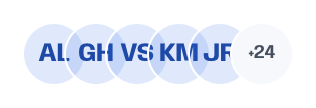
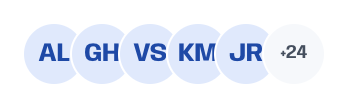
blocks: five drew a shape the object does not have, and every one was a tidy constant
phoneFrame set radius R.pill on the bezel and the screen. R.pill is 100, so
at the catalogue's own w:230 the corner was 43% of the width and it
rendered a capsule. It is now 16% of w, sized on a real handset, and the
screen is the bezel radius minus the pad, which is the concentric rule
DESIGN.md names. The same file already caught this class one line above,
where the notch was changed from a fixed 116px to a proportion.

avatarEl's default fill was 86% transparent, and avatarStack overlaps its
discs by 35%, so you read two fills through each other and the ring meant
to cut each disc out of the next separated nothing. social.mjs had already
written down that the default was wrong and was reinstating it anyway. The
opaque fill then exposed the second half: two capitals run 0.48 of the disc
and end at 0.74 across, so a 0.65 step parked the next disc on the last
fifth of the glyphs. make audit had been failing avatarStack on linear for
exactly this.

glassDock magnified a tile and not its corners, so the peak was the least
round thing in the dock. glassHome's glyph did not scale with its tile
while its sibling in the same file does. stripeCard's chart used 26px bars,
which stop 102px short of the card at the default width.

Fourteen entries judged fine and named, with the measurement each time.
snap-blocks 176 identical, 12 changed. Six of the twelve changed only an
avatar colour string and not one pixel, which is the proof the new mix is a
[…]

diff --git a/docs/MISTAKES.md b/docs/MISTAKES.md
@@ -14897,3 +14897,79 @@ moves. `probe-purity scene` clean. Preload runs once at boot and this changes no
 one third of the set is a statement rather than a derivation. The one-line repair is an
 `export const GSAP_PROPS = ['morph', 'fx', 'fxOut'];` beside `applyGsapHooks`, imported by the guard in
 place of the sweep. It was not made here because another author owned that file this phase.
+
+## #470 · five blocks drew a shape the object does not have, and every one was a tidy constant
+
+`phoneFrame` was reported: at the catalog's own `props: { w: 230, h: 440 }` it rendered a **capsule**, not
+a phone. Reading the rest of the 188-entry catalog by eye found four more of the same class. None of them
+was a wrong decision; each was a number that happened to look right once and then described a different
+object at every other size.
+
+**1 · phoneFrame drew a capsule, twice over.** `radius: R.pill` is 100px, and 100 on a 230px-wide device is
+**43% of the width**. A real handset corner is about a sixth (iPhone 15: 55pt of a 393pt display), so the
+bezel is now `round(w * 0.16)`, 37px at w:230, 48 at w:300. The screen carried the SAME `R.pill`, which is
+the concentric-radius error `site/DESIGN.md` already names: an inner arc is the outer arc minus the gap
+between the two, or the bezel reads thicker at the corners than along the sides. It is `bezel - pad` now.
+The file's own comment one line above says the notch is a proportion "not a fixed 116px, at the catalog's
+w:230 that constant covered more than half the screen". So the same author caught the same class of bug
+on the neighbouring line and left the radius alone, which is why this entry is about the CLASS.
+The `#0A0A0A` on the bezel and the island STAYS. It clears the legitimate-literal test in `blocks/kit.mjs`
+on the same ground `blocks/camera-chrome.mjs` keeps its REC red: the colour belongs to the hardware, not to
+a brand, and a theme repainting it would be depicting a different object.
+
+**2 · every avatar in the library was 86% transparent.** `avatarEl`'s default fill was `TOKENS.accentSoft`,
+which is `color-mix(in srgb, var(--accent) 14%, transparent)`. That is correct for a chip lying flat on a
+card and wrong for a disc that overlaps its own siblings: `avatarStack` steps its discs by 0.65 of their
+size, so 35% of every avatar sat over the one before it and you read both fills at once, and the 2px
+`--card` ring that is meant to cut each disc out of the next separated nothing. Mixing toward `--card`
+instead of `transparent` renders IDENTICALLY on a card ground, which is where every single-avatar block
+puts it, and `card.profile`, `feedRow`, `tweetCard`, `profileHeader`, `videoLowerThird` and
+`splitScreen.pip` all changed their JSON and NOT one pixel of their poster, and makes the stack a stack.
+The fix is in `avatarEl`, not the six call sites; `blocks/social.mjs` was reinstating the see-through fill
+over the top of it with a `bg: a.color || T.accentSoft`, so that went too. `blocks/social.mjs:20-25` had
+already written down that this default was wrong and that changing it was "still outstanding".
+
+**3 · the opaque fill exposed the second half: the initials were being cut.** `avatarEl` sets the initials
+at 0.4 of the disc, so two capitals run about 0.48 of it and, centred, end at **0.74** of the way across. A
+step of 0.65 therefore parked the next disc on the last fifth of the glyphs; translucency had been hiding
+it. 0.75 clears them, and 25% is where every real facepile sits. The constant was spelled twice, in
+`avatarStack` and in `socialProof`, which is the drift shape this repo logs most; it is one `AV_STEP` now.
+`make audit` had been failing `avatarStack` and `avatarStack.large` on the `linear` theme for this the
+whole time (4 and 5 HARD) and nobody had run it on a block poster.
+
+**4 · glassDock's magnified tile was the least round thing in the dock.** The block exists to enlarge one
+icon; a fixed `R.soft` gave the 76px neighbours a 21% corner and the 123px peak a **13%** one, so the
+subject read squarer than its context. Magnification is a scale of the whole icon, corners included:
+`round(size * 0.21)`, which reproduces 16px at the resting size.
+
+**5 · glassHome's glyph did not scale with its tile, and glassDock's already did.** Two blocks in one file,
+same object, one proportional and one a constant: `w: 56, h: 56` was 42% of the catalog's `size: 132` and
+28% of a `size: 200` launcher. `round(size * 0.424)` is byte-identical at the catalog's own props and right
+at every other size, the notch repair, applied to the sibling nobody re-read.
+
+**6 · stripeCard's chart stopped two thirds of the way across its own card.** The bars were a fixed 26px,
+so the one part of this block that reads as Stripe ended 62px short of the Pay button beneath it at the
+catalog's `w: 340` (7 x 26 + 6 x 8 = 230 of a 292px content box) and 102px short at the default `w: 380`.
+A dashboard's volume chart is measured against the panel it sits in. Derived from `w` now, it fills.
+
+**Why no gate.** Every one of these is a value WRITTEN in a block factory, so the refusal belongs at the
+write site and there is nothing here a post-render check could see that reading the code cannot. What went
+in instead is seven asserts in `scripts/gates/lib-test.mjs` over the factories' own output: phoneFrame's
+corner is 13-19% of `w` at three widths and its screen is `bezel - pad`; glassDock's tiles all share one
+radius fraction; avatarStack's discs carry no `transparent` and its step clears 0.74; stripeCard's bar row
+spans the content box at three widths. All seven fail on the pre-fix tree and name the number they saw.
+
+**Gates.** `lib-test` 1144 to 1151 passing (+7), 0 failed. `block-schema` PASS. `snap-blocks` 176
+identical, 12 changed, 0 non-deterministic, the 12 are the six blocks above plus the six single-avatar
+blocks whose JSON moved and whose picture did not. `make audit` over all 13 touched entries on `vawe`,
+`linear` and `higgsfield`: **41 HARD before, 28 after, and not one scene went PASS to FAIL**;
+`avatarStack.linear` and `avatarStack.large.linear` went FAIL to PASS and `socialProof.linear` dropped 6
+HARD to 2. The 28 that remain are pre-existing and in blocks this pass did not change: `glassHome`'s
+frosted labels, `feedRow` and `profileHeader`'s meta type, `stripeCard`'s Stripe grey at 3.0:1 on white,
+and `socialProof`'s caption, which the poster scene puts on a plain backdrop while the block's ink assumes
+a card.
+
+**What is NOT done.** `site/public/assets/blocks/parallaxZoom.png` re-renders differently on every run of
+`make blocks-scenes` and `borderBeamCard.png` no longer matches what is committed. Neither block was
+touched here and neither shows up in `snap-blocks`, which reads the layer JSON and not the picture, so a
+poster for a time-sampled block can drift with nothing to say so. Both were reverted rather than fixed.
